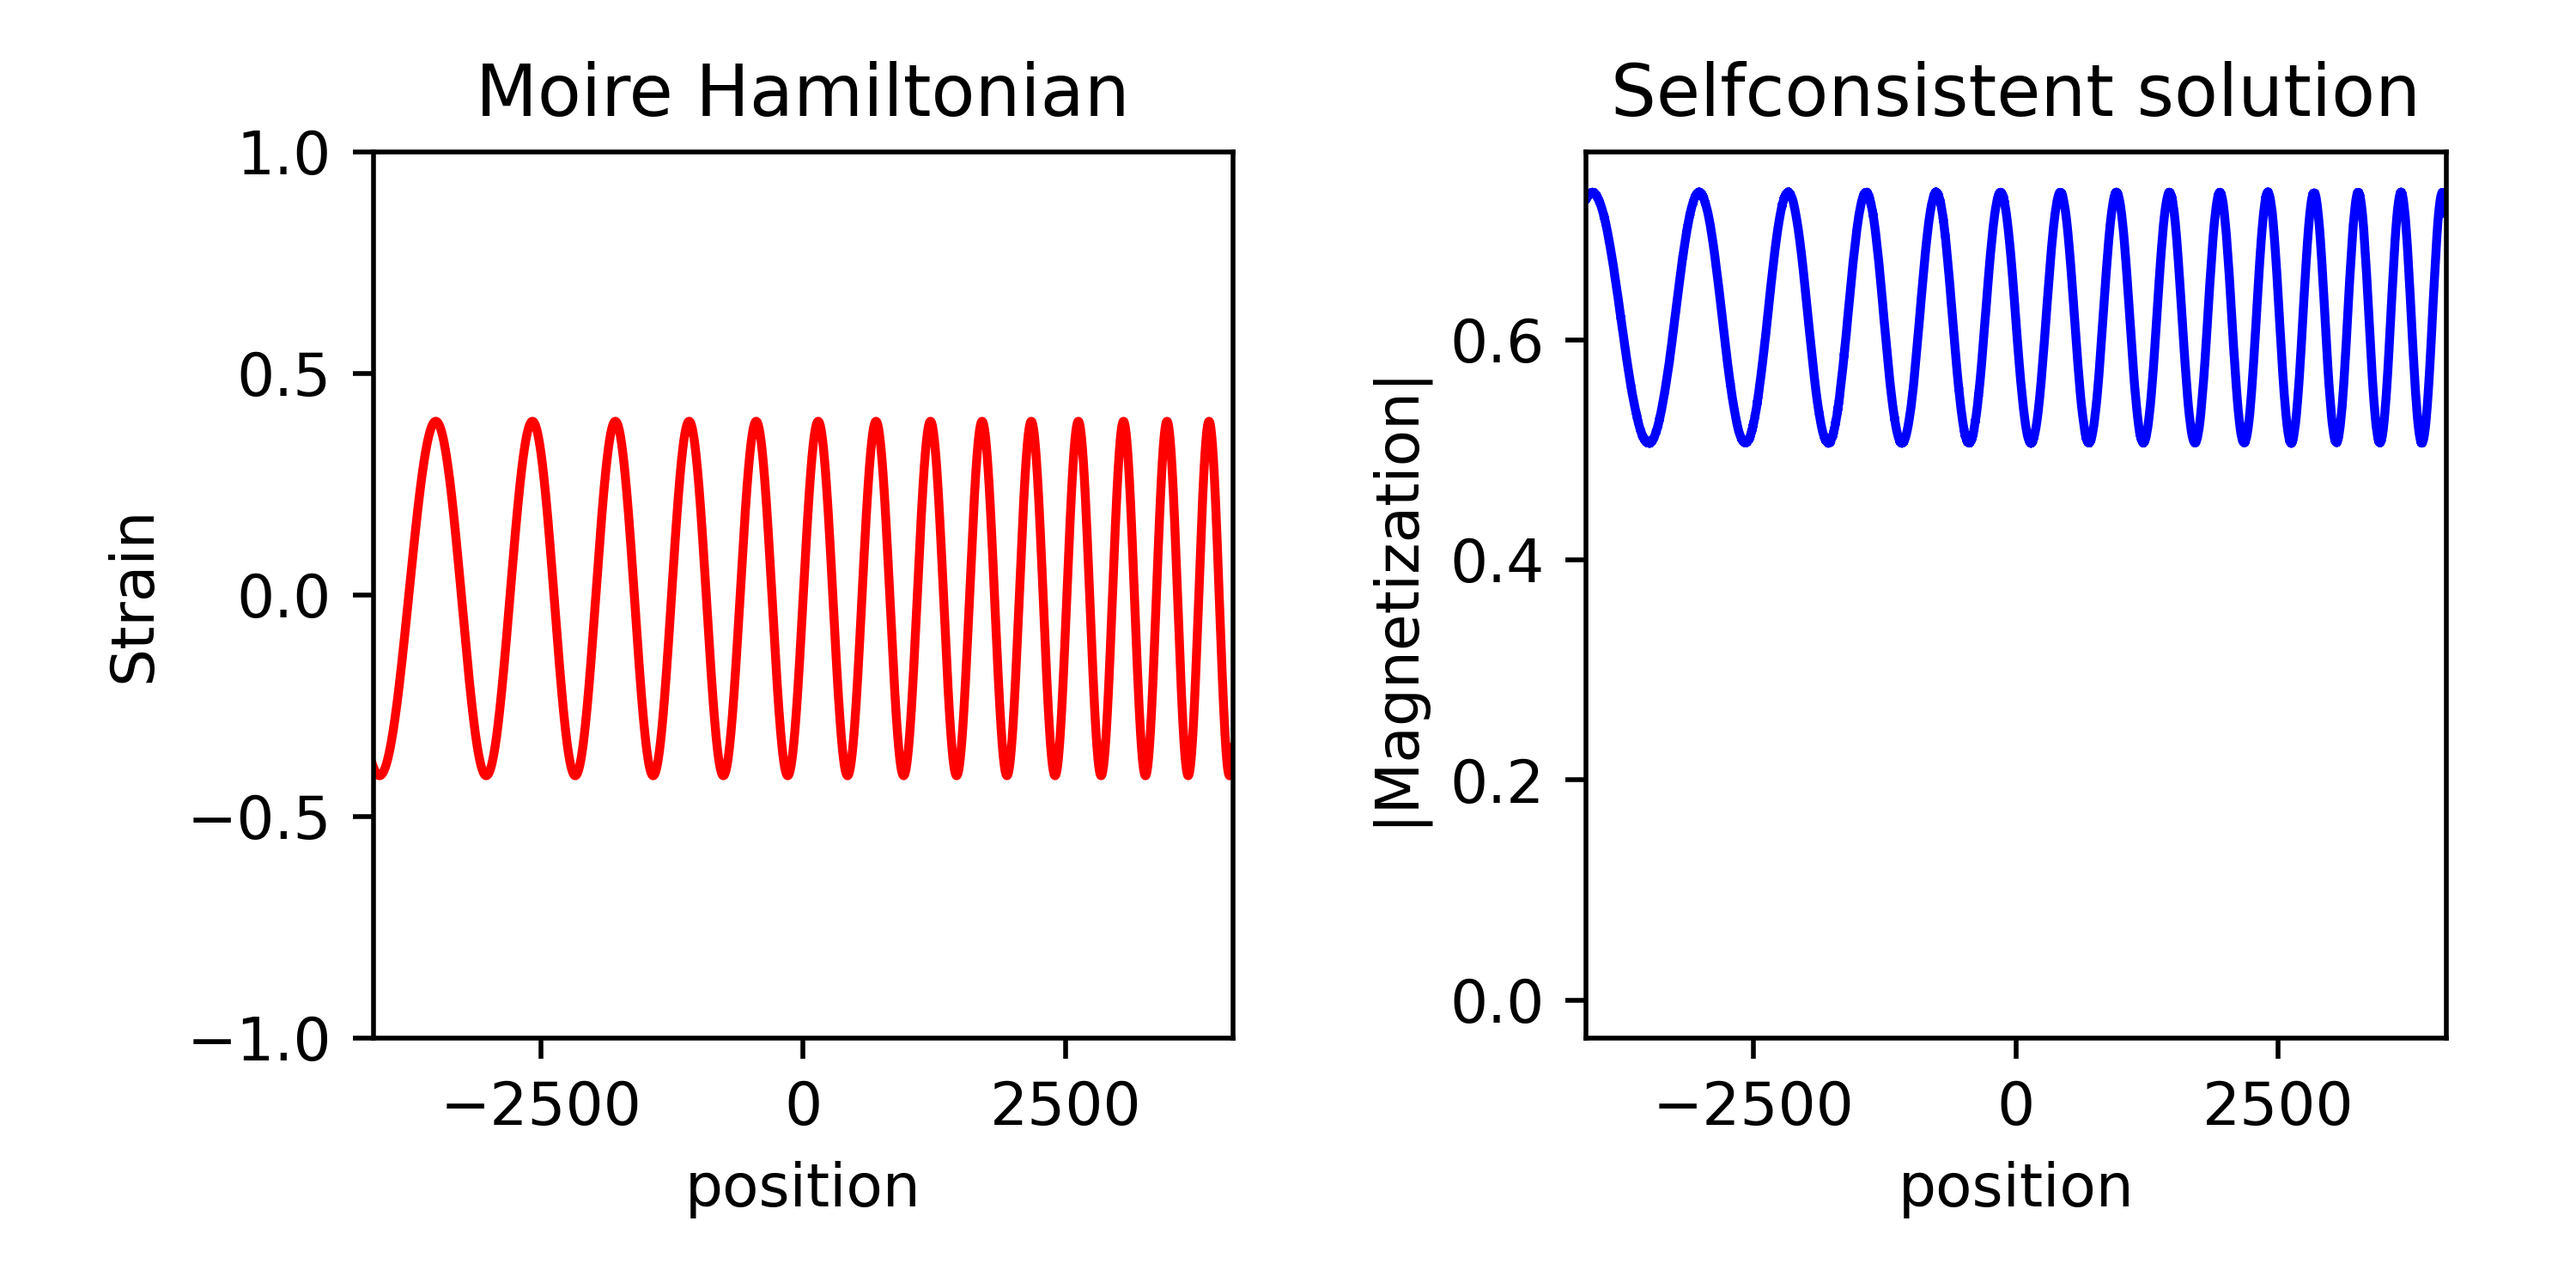
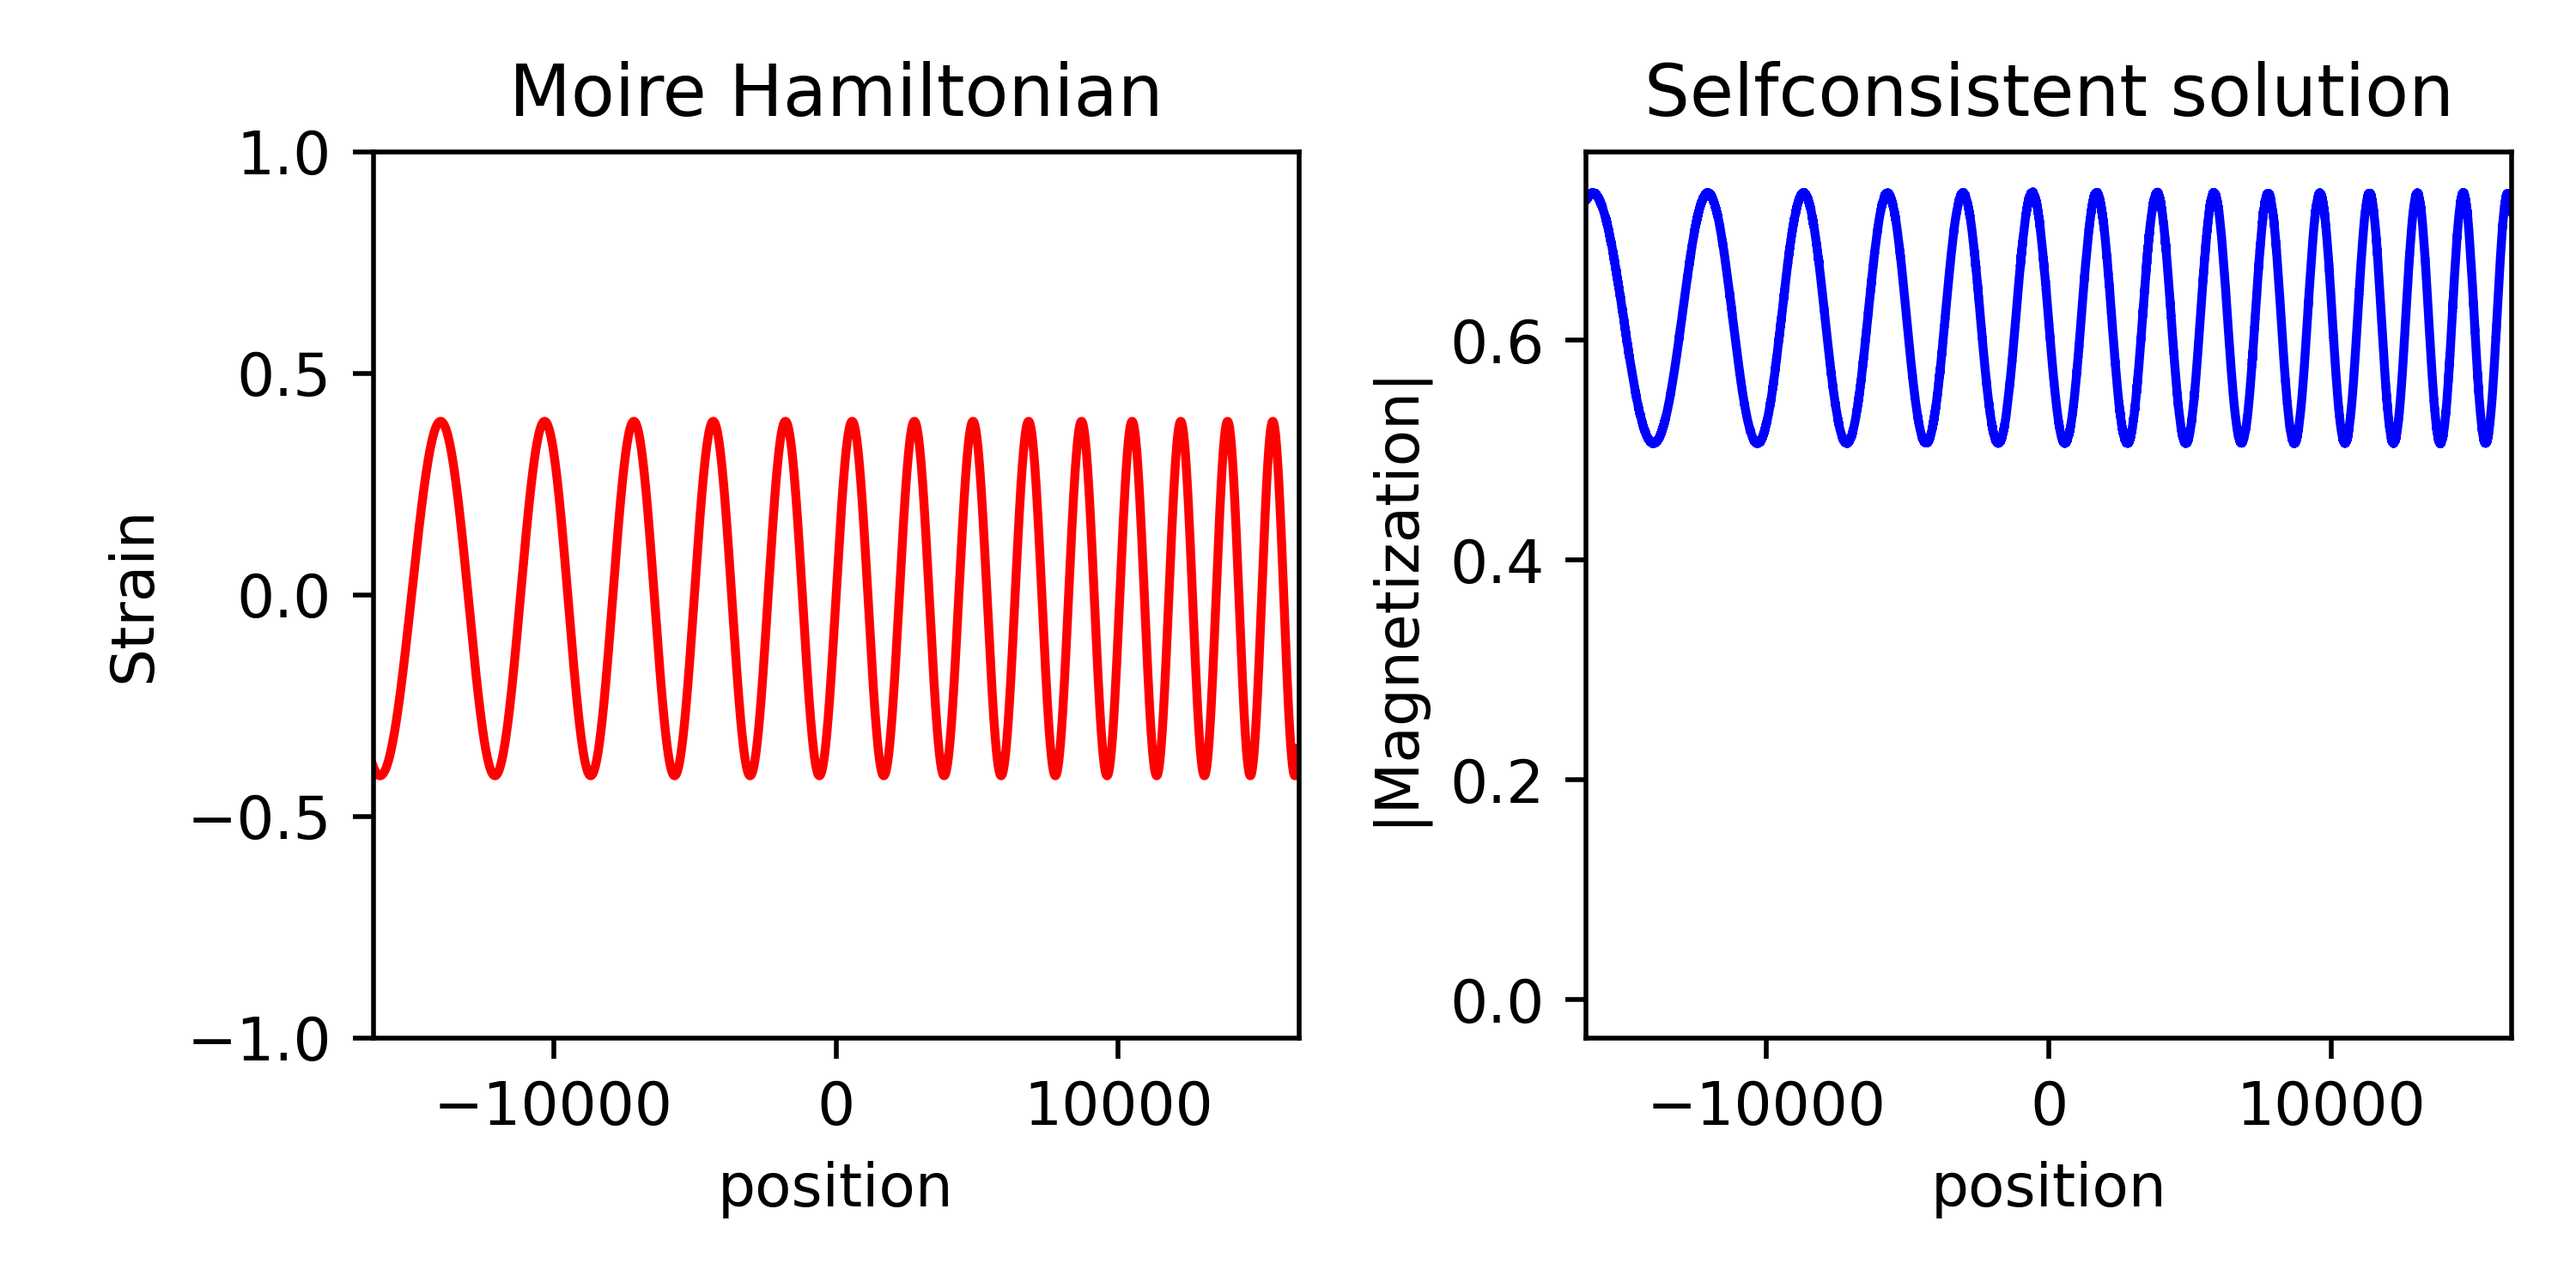
Update

diff --git a/src/qtcipy/tbscftk/dynamicalqtci.py b/src/qtcipy/tbscftk/dynamicalqtci.py
@@ -34,18 +34,29 @@ def overwrite_qtci_kwargs(kwargs,qtci_kwargs):
 
 
 
-def get_default(v):
+def get_default(qtci_maxm=400,
+        qtci_maxfrac=0.95,
+        qtci_tol=1e-2,
+        **kwargs
+        ):
     """Return a default set of parameters for the QTCI"""
-    qtci_kwargs = {"qtci_maxm":400} # reasonable guess
+    qtci_kwargs = {"qtci_maxm":qtci_maxm} # reasonable guess
     qtci_kwargs["qtci_accumulative"] = True # accumulative mode
-    qtci_kwargs["qtci_tol"] = 1e-3 # initial tol
+    qtci_kwargs["qtci_tol"] = qtci_tol # initial tol
+    qtci_kwargs["qtci_maxfrac"] = qtci_maxfrac # initial fraction
     return qtci_kwargs # return this
 
 
-def overwrite_qtci_kwargs(scf,kwargs):
+def overwrite_qtci_kwargs(scf,kwargs,master="scf"):
     """Overwrite the QTCI keyword arguments"""
     if scf.qtci_kwargs is not None: # if they are set
-        for key in scf.qtci_kwargs: kwargs[key] = scf.qtci_kwargs[key]
+        for key in scf.qtci_kwargs: 
+            if master=="scf": # scf overwrites the kwargs
+                kwargs[key] = scf.qtci_kwargs[key]
+            elif master=="kwargs": # kwargs overwrites the scf
+                if key in kwargs:
+                    scf.qtci_kwargs[key] = kwargs[key] 
+            else: raise
 
 from copy import deepcopy as cp
 
@@ -57,12 +68,8 @@ def initial_qtci_kwargs(SCF,use_dynamical_qtci=False,
     if "use_qtci" in kwargs:
         if not kwargs["use_qtci"]: return {} # return an empty list
     if SCF.qtci_kwargs is None: # first iteration
-        qtci_kwargs = {"qtci_maxm":400} # reasonable guess
-        qtci_kwargs["qtci_accumulative"] = True # accumulative mode
-        qtci_kwargs["qtci_tol"] = 1e-3 # initial tol
-        qtci_kwargs["qtci_maxfrac"] = 0.05 # initial fraction
-        SCF0 = SCF.copy() # make a copy
-        SCF0.qtci_kwargs = qtci_kwargs # overwrite
+        qtci_kwargs = get_default(**kwargs) # get the default
+        return qtci_kwargs # temporal fix
         kw = cp(kwargs) # make a copy
         kw["kpm_delta"] = 2.0
         kw["delta"] = 2.0
@@ -75,10 +82,13 @@ def initial_qtci_kwargs(SCF,use_dynamical_qtci=False,
 #        mz = SCF0.H0.get_moire()*SCF0.MF[0] # make a guess
         # get some kwargs
         if use_dynamical_qtci: # use an adaptive QTCI
+            SCF0 = SCF.copy() # make a copy
+            SCF0.qtci_kwargs = qtci_kwargs # overwrite
 #            frac,qtci_kwargs = optimal_qtci(mz,recursive=True) 
 #            SCF0.qtci_kwargs = qtci_kwargs # use these ones
+            SCF0.qtci_kwargs["qtci_maxfrac"] = 0.05 # initial fraction
             SCF0.solve(**kw) # one iteration without accuracy
-            SCF0.qtci_kwargs["qtci_maxfrac"] = 0.2 # overwrite
+            del SCF0.qtci_kwargs["qtci_maxfrac"] # delete
         else: return qtci_kwargs
         print("SCF Initialization DONE")
         return SCF0.qtci_kwargs

diff --git a/src/qtcipy/interpolatecpp.py b/src/qtcipy/interpolatecpp.py
@@ -192,7 +192,8 @@ def accumulative_train(ci,qtci_tol=1e-3,qgrid=None,
 def rook_train(ci,qtci_tol=1e-3,qgrid=None,
         info_qtci=False,
         qtci_pivot1=None,
-        qtci_args = {}, # empty distionary
+        qtci_maxfrac=0.95, # maximum fraction
+        qtci_args = {}, # empty dictionary
         nb=1,f=None,
         **kwargs):
     """Rook restart mode"""
@@ -223,9 +224,11 @@ def rook_train(ci,qtci_tol=1e-3,qgrid=None,
             if err<qtci_tol: # tolerance reached, check a few random points
                 err_est = estimate_error(ci,f,nb=nb,qgrid=qgrid)
                 if err_est<qtci_tol: # error semms ok, stopping
-#                    if info_qtci:
-#                        print("QTCI pivot tol reached",err," stopping training")
                     break # stop loop
+        npoints = 2**nb
+        nev = len(get_cache_info(f)[0])
+        if nev/npoints>qtci_maxfrac: # above threshold 
+            break # stop
     # evaluate error #
     evf = len(get_cache_info(f)[0])/(2**nb) # percentage of evaluations
     err = ci.pivotError[len(ci.pivotError)-1] # error

diff --git a/src/qtcipy/tbscftk/scf.py b/src/qtcipy/tbscftk/scf.py
@@ -27,9 +27,9 @@ class SCF_Hubbard():
         """Perform the SCF loop"""
         from .hubbard import SCF_Hubbard
         from .dynamicalqtci import initial_qtci_kwargs
-        print(self.qtci_kwargs)
+        from .dynamicalqtci import overwrite_qtci_kwargs
         self.qtci_kwargs = initial_qtci_kwargs(self,**kwargs)
-        for key in self.qtci_kwargs: kwargs[key] = self.qtci_kwargs[key]
+        overwrite_qtci_kwargs(self,kwargs,master="kwargs")
         return SCF_Hubbard(self,**kwargs)
     def estimate_time(self,**kwargs):
         from .timeestimator import testimate

diff --git a/src/qtcipy/tbscftk/hubbard.py b/src/qtcipy/tbscftk/hubbard.py
@@ -148,6 +148,7 @@ def SCF_Hubbard(scf,maxerror=1e-3,maxite=100,
         from .dynamicalmixing import error_hubbard
         from .dynamicalqtci import overwrite_qtci_kwargs
         overwrite_qtci_kwargs(scf,kwargs) # overwrite parameters
+        print(kwargs)
         error = error_hubbard([dup,ddn],[dup_old,ddn_old]) # compute error
 #        error = np.mean(np.abs(ddn-ddn_old) + np.abs(dup-dup_old)) # error
         if log is not None: # do the logs

diff --git a/examples/README_examples/strainedmoire_KPQTC/main.py b/examples/README_examples/strainedmoire_KPQTC/main.py
@@ -19,6 +19,7 @@ H.modify_hopping(f) # modify the hopping
 SCF = H.get_SCF_Hubbard(U=3.0) # generate a selfconsistent object
 
 SCF.solve(use_qtci=True,use_kpm=True,info=True,info_qtci=True,delta=1e-1,
+        qtci_maxfrac=0.2,
         maxite=10,use_dynamical_qtci=True,chiral_AF=True)
 Mz = SCF.Mz # selfconsistent magnetization
 

diff --git a/README.md b/README.md
@@ -79,7 +79,7 @@ We will now compute a moire pattern with non-uniform strain
 from qtcipy.tbscftk import hamiltonians
 import numpy as np
 
-L = 14 # exponential length, leads to 2**L sites
+L = 16 # exponential length, leads to 2**L sites
 H = hamiltonians.chain(L) # get the Hamiltonian
 
 def f(r):
